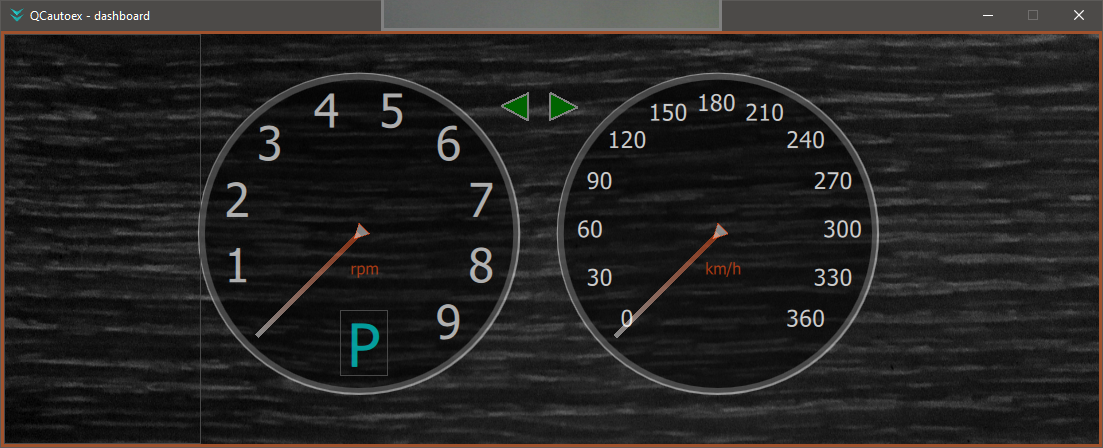
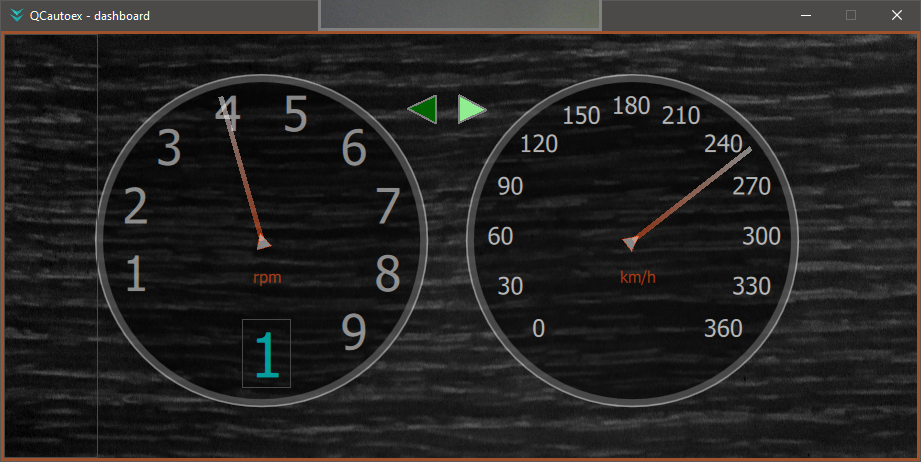
Building square gauges

diff --git a/main.qml b/main.qml
@@ -14,9 +14,10 @@ Window {
     property real rpmValue: 0
     property int revLabelSize: 7
     property int speedLabelSize: 14
-    property real revLabelCenterMultiplierX: 0.015
-    property real revLabelCenterMultiplierY: 0.013
-    property real speedLabelCenterMultiplierX: 0.02
+    property int oilTempLabelSize: 10
+    property real revLabelCenterMultiplierX: 0.0
+    property real revLabelCenterMultiplierY: 0.0
+    property real speedLabelCenterMultiplierX: 0.0
     property real speedLabelCenterMultiplierY: 0.065
 
     Image {
@@ -33,6 +34,43 @@ Window {
         border.color: "Sienna"
     }
 
+    Rectangle {     // left side gadgets
+        property int defaultMargin : window.height / 6.5
+        anchors.top: windowBorder.top
+        anchors.left: windowBorder.left
+        anchors.right: mainGauges.left
+        anchors.bottom: windowBorder.bottom
+        anchors.topMargin: defaultMargin
+        anchors.bottomMargin: defaultMargin
+        anchors.leftMargin: defaultMargin
+        anchors.rightMargin: defaultMargin / 2
+        color: "transparent"
+        border.width: 1
+        border.color: "#484848"
+
+        SquareGauge {     // oil temperature gauge
+            id: oilTemperatureGauge
+            anchors.top: parent.top
+            anchors.right: parent.right
+            //anchors.margins: 4
+            gaugeName: "OIL TEMP"
+            height: window.height * 0.165
+            width: height * 2
+            gaugeValue: 90
+
+//            Repeater {      // oil temperature value labels
+//                model: 5
+//                delegate: CircularGaugeLabels {
+//                    labelNumber: 50 + (index * 20)
+//                    labelNumberSize: parent.height / oilTempLabelSize
+//                    labelRotation: 45 + ((index + 1) * 30)
+//                    gaugeLabelCenterMultiplierX: 0
+//                    gaugeLabelCenterMultiplierY: 0
+//                }
+//            }
+        }
+    }
+
     RearViewMirror {    // floating rear-view mirror
         width: window.width * 0.31
         height: width * 0.3
@@ -40,53 +78,29 @@ Window {
     }
 
     Rectangle {     // main gauges
-        id: mainMeters
+        id: mainGauges
         height: window.height
         width: window.height * 1.7
         color: "transparent"
         anchors.centerIn: windowBorder
+        anchors.margins: 2
+        border.width: 1
+        border.color: "#484848"
 
         CircularGauge {     // revolutions gauge
             id: revMeter
             anchors.verticalCenter: parent.verticalCenter
+            anchors.left: mainGauges.left
             anchors.leftMargin: 0
-//            anchors.leftMargin: window.height * 0.0375
-            gaugeName: "rpm"
-            height: mainMeters.height * 0.8
+            gaugeName: "r/min\nx1000"
+            height: mainGauges.height * 0.8
             width: height
-
-            Rectangle {     // gear display
-                id: gearDisplay
-                width: revMeter.width / 7
-                height: revMeter.height / 5
-                anchors.bottom: revMeter.bottom
-                anchors.bottomMargin: window.height * 0.07
-                anchors.horizontalCenter: revMeter.horizontalCenter
-                anchors.leftMargin: 0
-                color: "transparent"
-                border.width: 1
-                border.color: "#484848"
-                Text {      // gear display
-                    id: gear
-                    text: qsTr("P")
-                    anchors.centerIn: parent
-                    color: "#00cccc"
-                    opacity: 0.75
-                    font.pixelSize: {
-                        if ((parent.height * 0.9) > 0) {
-                            parent.height * 0.9
-                        } else {
-                            1
-                        }
-                    }
-                }
-            }
 
             Repeater {      // revolution value labels
                 model: 9
-                delegate: GaugeLabel {
+                delegate: CircularGaugeLabels {
                     labelNumber: index + 1
-                    labelNumberSize: revMeter.height / revLabelSize
+                    labelNumberSize: parent.height / revLabelSize
                     labelRotation: (index + 1) * 30
                     gaugeLabelCenterMultiplierX: revLabelCenterMultiplierX
                     gaugeLabelCenterMultiplierY: revLabelCenterMultiplierY
@@ -96,38 +110,33 @@ Window {
 
         CircularGauge {     // speed gauge
             id: speedoMeter
-            anchors.right: mainMeters.right
-            anchors.rightMargin: window.height * 0.0375
-            anchors.verticalCenter: revMeter.verticalCenter
+            anchors.right: mainGauges.right
+            anchors.rightMargin: 0
+            anchors.verticalCenter: parent.verticalCenter
             gaugeName: "km/h"
-            height: mainMeters.height * 0.8
+            height: mainGauges.height * 0.8
             width: height
 
             Repeater {      // speed value labels
                 model: 13
-                delegate: GaugeLabel {
+                delegate: CircularGaugeLabels {
                     labelNumber: index * 30
-                    labelNumberSize: speedoMeter.height / speedLabelSize
+                    labelNumberSize: parent.height / speedLabelSize
                     labelRotation: index * 22.5
                     gaugeLabelCenterMultiplierX: speedLabelCenterMultiplierX
                     gaugeLabelCenterMultiplierY: speedLabelCenterMultiplierY
                 }
             }
-        }
-    }
 
-    Rectangle {     // left side gadgets
-        x: 3; y: 3
-        width: (window.width - mainMeters.width) / 2
-        height: window.height - 6
-        color: "transparent"
-        border.width: 1
-        border.color: "#484848"
+            GearDisplay {   // gear display
+                id: gearDisplay
+            }
+        }
     }
 
     Rectangle {     // turn signals
         id: turnSignals
-        anchors.horizontalCenter: mainMeters.horizontalCenter
+        anchors.horizontalCenter: mainGauges.horizontalCenter
         y: window.height * 0.15
         width: window.height * 0.25; height: window.height * 0.21
         color: "transparent"

diff --git a/SquareGauge.qml b/SquareGauge.qml
@@ -1,0 +1,68 @@
+//
+// Module provides base item for circular gauges.
+//
+import QtQuick 2.7
+import QtQuick.Shapes 1.15
+
+Item {
+    property int gaugeValue: 0
+    property string gaugeName: "*"
+
+    Rectangle {
+        id: gaugeRectangle     // gauge border
+        width: parent.width
+        height: parent.height
+        color: "transparent"
+        border.color: "#969696"
+        border.width: parent.height * 0.07
+
+        Rectangle {         // gauge background
+            anchors.centerIn: parent
+            width: parent.width * 0.98
+            height: parent.height * 0.96
+            color: "#000000"
+            opacity: 0.5
+        }
+        Rectangle {     // slider background
+            id: gaugeNeedle
+            width: parent.height * 0.45
+            height: parent.width * 0.9
+            anchors.centerIn: parent
+            anchors.verticalCenterOffset: parent.height * -0.17
+            color: "#00cccc"
+            rotation: -90
+            gradient: Gradient {
+                GradientStop { position: 0.0; color: "blue" }
+                GradientStop { position: 1.0; color: "red" }
+            }
+
+            //opacity: 0.4
+            Rectangle {     // slider
+                id: gaugeSlider
+                width: parent.width
+                height: parent.height - ((parent.height / 100) * gaugeValue)
+                anchors.bottom: parent.bottom
+                //anchors.horizontalCenter: parent.horizontalCenter
+                //anchors.verticalCenter: parent.verticalCenter
+                color: "#161616"
+                opacity: 1
+            }
+        }
+        Text {      // gauge description text
+            anchors.centerIn: parent
+            transform: Scale { yScale: 0.75 }
+            anchors.verticalCenterOffset: parent.height * 0.28
+            text: gaugeName
+            font.pixelSize: {
+                if ((parent.height * 0.25) > 0) {
+                    parent.height * 0.25
+                } else {
+                    1
+                }
+            }
+
+            color: "#fb4f14"
+            opacity: 0.65
+        }
+    }
+}

diff --git a/CircularGauge.qml b/CircularGauge.qml
@@ -9,16 +9,14 @@ Item {
     property string gaugeName: "*"
 
     id: root
-    //width: 400
-    //height: 400
 
     Rectangle {
         id: gaugeCircle     // gauge border
-        width: parent.width - (window.height * 0.025)
-        height: parent.height - (window.height * 0.025)
+        width: parent.width
+        height: parent.height
         color: "transparent"
         border.color: "white"
-        border.width: window.height * 0.0175
+        border.width: parent.height * 0.0175
         radius: width * 0.5
         opacity: 0.5
         Rectangle {         // gauge background
@@ -31,7 +29,13 @@ Item {
         Rectangle {     // needle
             id: gaugeNeedle
             height: (gaugeCircle.height / 2) * 0.9
-            width: height / 30
+            width: {
+                if (height / 30 >= 1) {
+                    height / 30
+                } else {
+                    1
+                }
+            }
             anchors.horizontalCenter: parent.horizontalCenter
             y: parent.height / 2
             gradient: Gradient {
@@ -69,12 +73,14 @@ Item {
     }
     Text {      // gauge description text
         anchors.horizontalCenter: parent.horizontalCenter
-        anchors.bottom: parent.bottom
-        anchors.bottomMargin: parent.height / 2.6
+        anchors.top: parent.top
+        anchors.topMargin: (parent.height / 2) + (parent.height * 0.05)
+        horizontalAlignment: Text.AlignHCenter
+        verticalAlignment: Text.AlignTop
         text: gaugeName
         font.pixelSize: {
-            if ((window.height * 0.0375) > 0) {
-                window.height * 0.0375
+            if ((parent.height * 0.05) > 0) {
+                parent.height * 0.05
             } else {
                 1
             }

diff --git a/GearDisplay.qml b/GearDisplay.qml
@@ -1,0 +1,31 @@
+import QtQuick 2.0
+
+Rectangle {     // gear display
+    property string gear: "P"
+
+    width: parent.width / 7
+    height: parent.height / 5
+    anchors.bottom: parent.bottom
+    anchors.bottomMargin: window.height * 0.07
+    anchors.horizontalCenter: parent.horizontalCenter
+    anchors.leftMargin: 0
+    color: "transparent"
+    border.width: 1
+    border.color: "#484848"
+
+    Text {      // gear value
+        text: gear
+        anchors.centerIn: parent
+        horizontalAlignment: Text.AlignHCenter
+        verticalAlignment: Text.AlignVCenter
+        color: "#00cccc"
+        opacity: 0.75
+        font.pixelSize: {
+            if ((parent.height * 0.9) > 0) {
+                parent.height * 0.9
+            } else {
+                1
+            }
+        }
+    }
+}

diff --git a/CircularGaugeLabels.qml b/CircularGaugeLabels.qml
@@ -19,8 +19,6 @@ Rectangle {
         angle: 45 + labelRotation
     }
     color: "transparent"
-    //border.color: "grey"
-    //border.width: 1
 
     Rectangle {
         width: labelRectangle.width
@@ -39,6 +37,8 @@ Rectangle {
         }
         Text {
             id: labelText
+            horizontalAlignment: Text.AlignHCenter
+            verticalAlignment: Text.AlignVCenter
             text: qsTr(labelNumber.toString())
             font.pixelSize: labelNumberSize
             color: "#ffffff"

diff --git a/SocketServer.qml b/SocketServer.qml
@@ -21,7 +21,10 @@ Item {
             turnSignalsItem.signalValue = gaugeValue
             break;
         case "G":
-            gear.text = gaugeValue
+            gearDisplay.gear = gaugeValue
+            break;
+        case "Ot":
+            oilTemperatureGauge.gaugeValue = gaugeValue
             break;
         default:
             break;

diff --git a/ControlButtons.qml b/ControlButtons.qml
@@ -31,7 +31,8 @@ Item {
             turnSignals.running = false
             turnSignalsItem.resetTurnSignals()
             gearTimer.running = false
-            gear.text = "P"
+            gearDisplay.gear = "P"
+            //gear.text = "P"
         }
     }
     DefaultButton {
